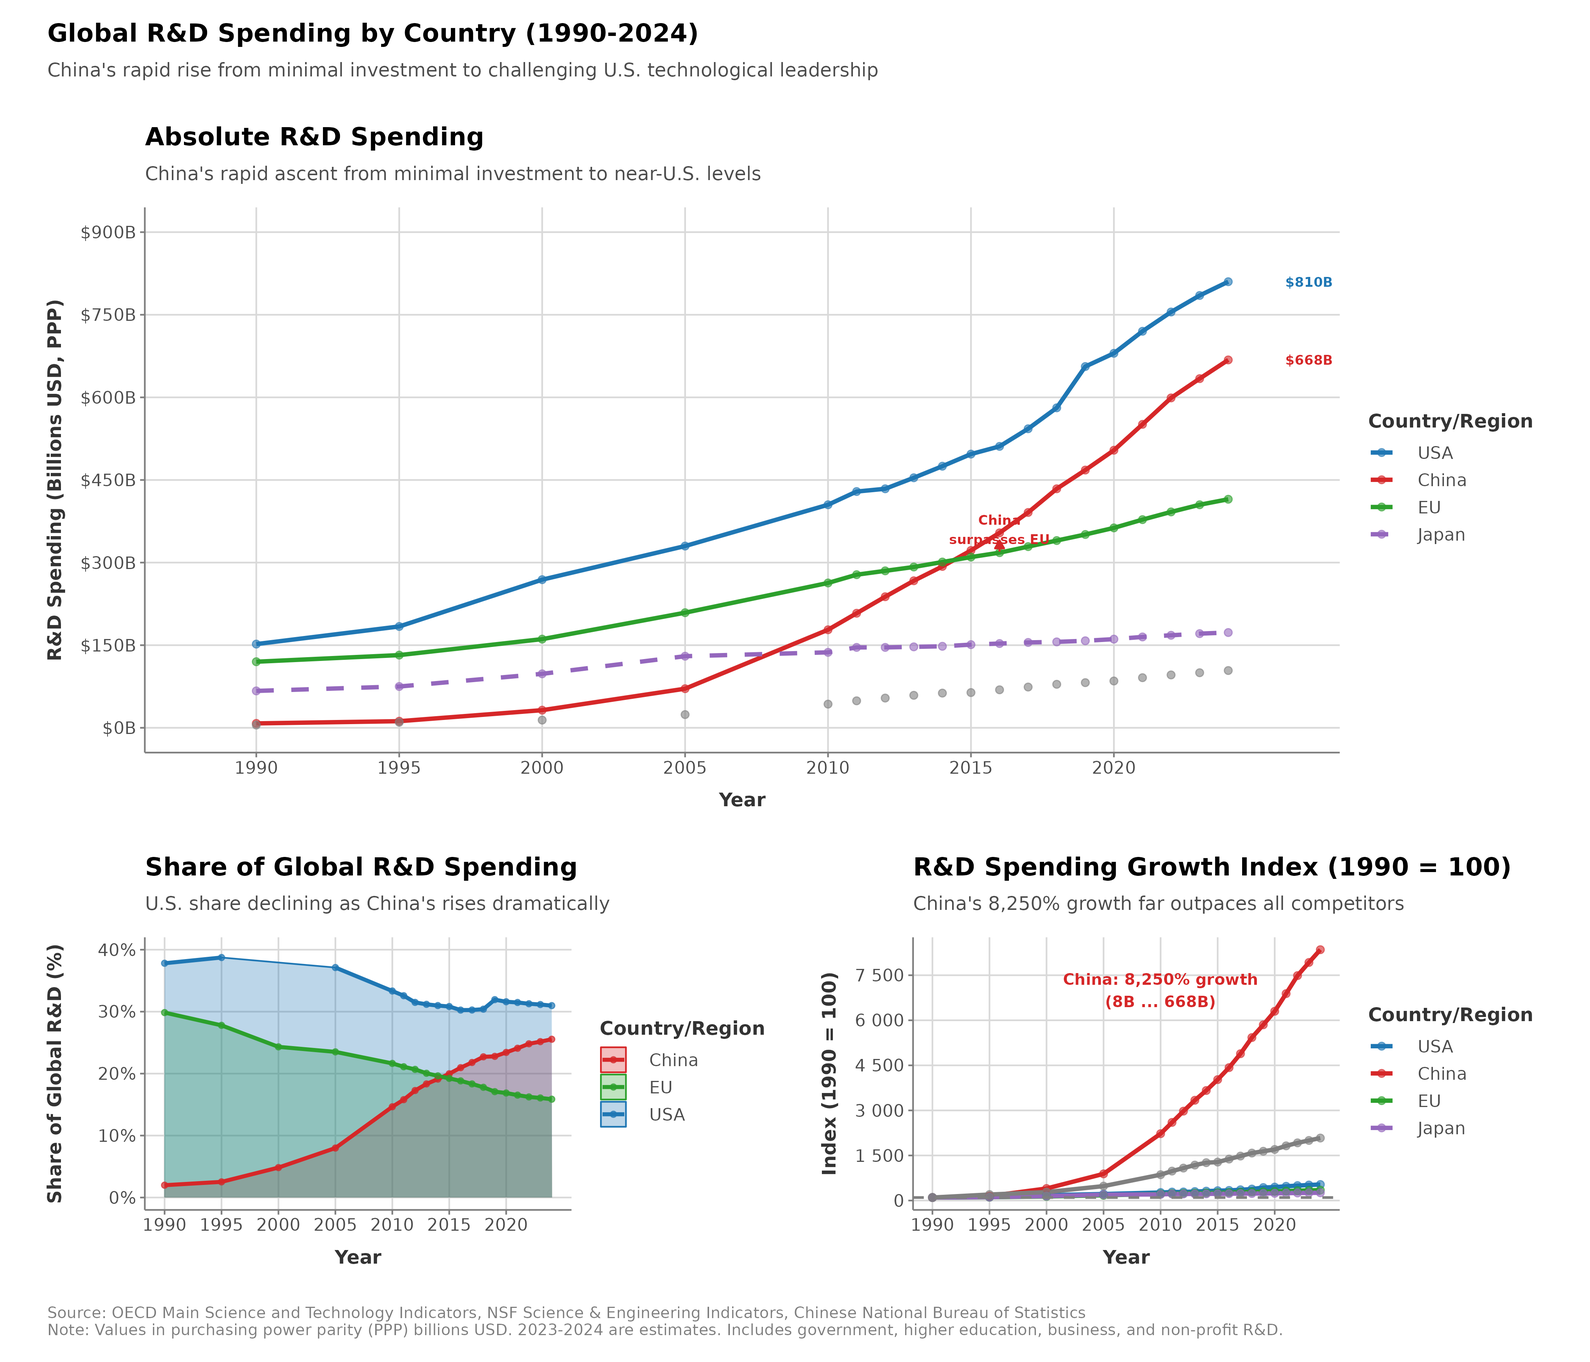
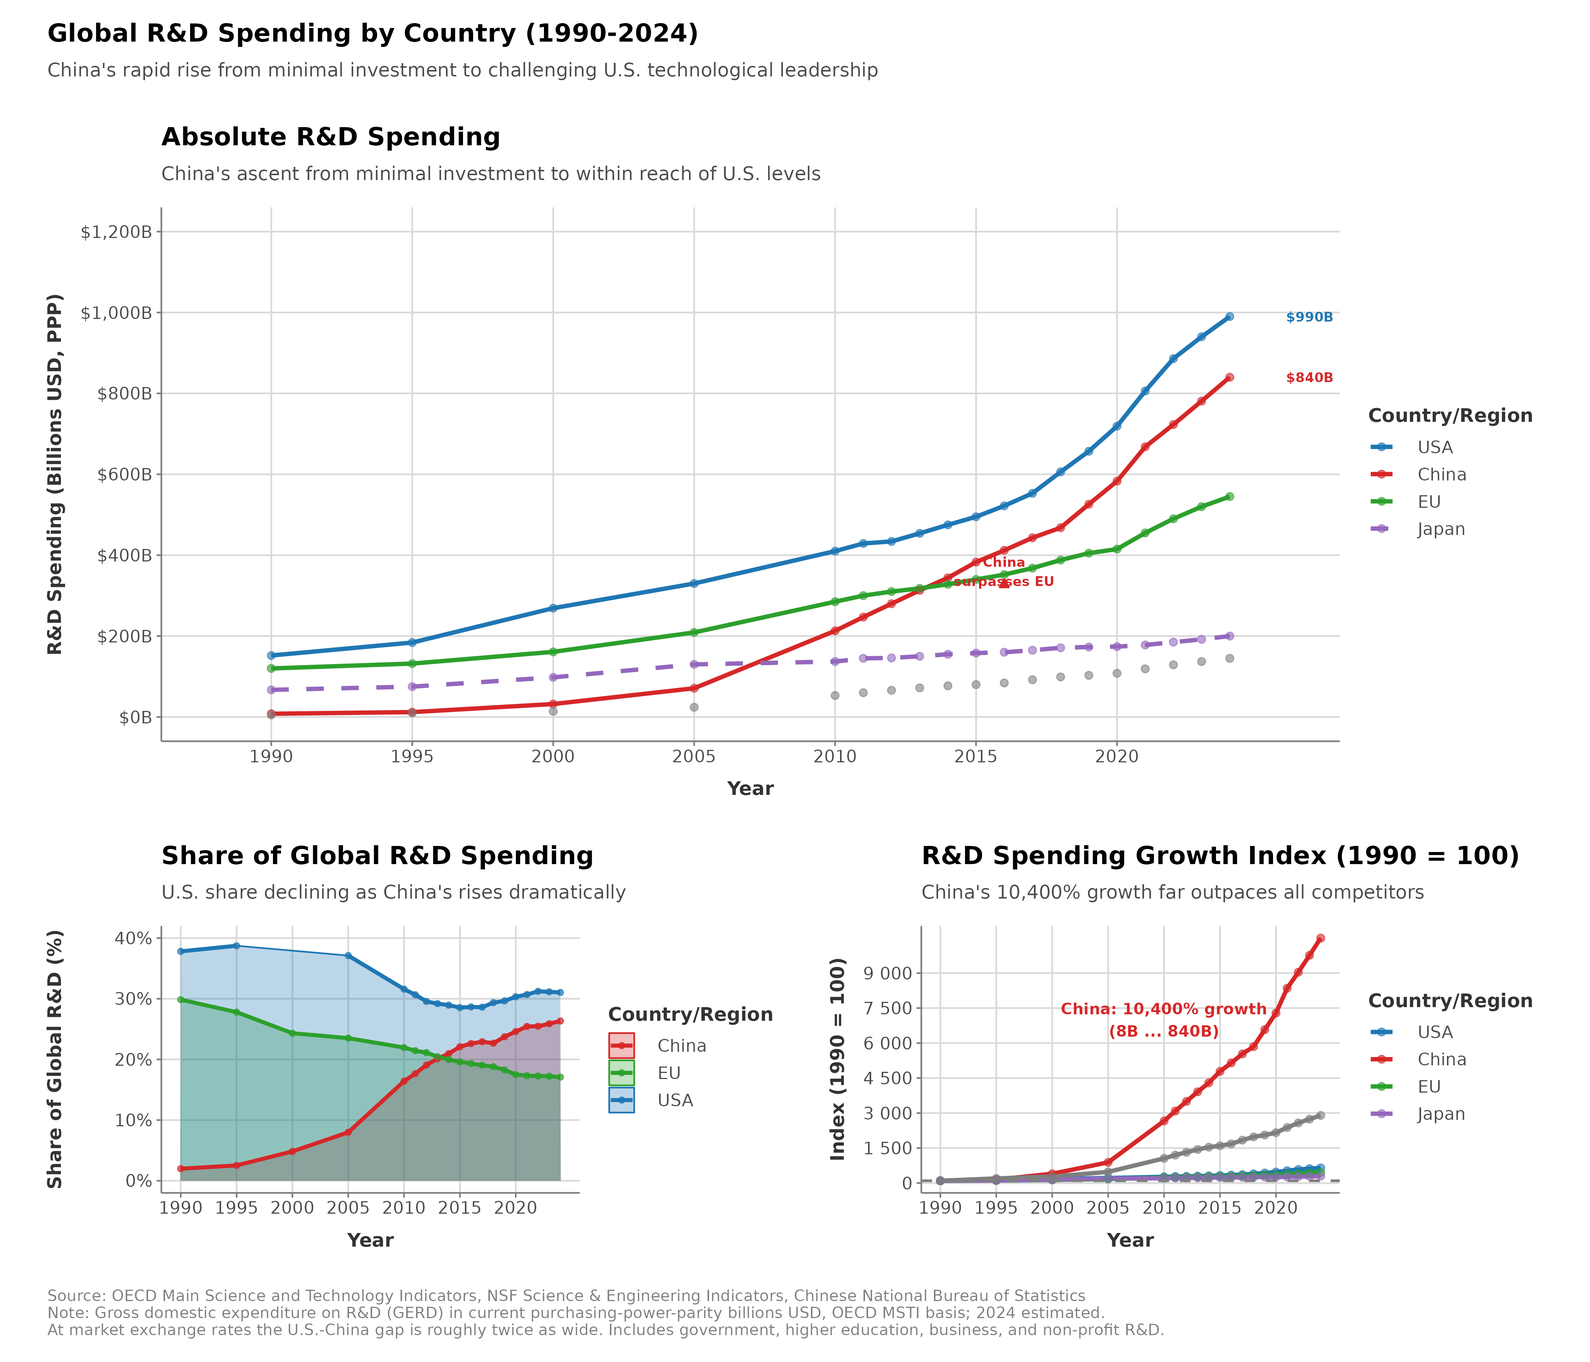
Conform R&D and renewables data to the canonical bases; de-drift figure labels
Figure 4.1 was labelled "PPP" but its U.S. series tracked market-rate GERD, so the
chart quietly contradicted Chapter 4's careful two-basis discussion. Rebuilt the
series on OECD MSTI current-PPP: China reaches ~$840B in 2024 against ~$990B for
the U.S. On that basis China has not yet passed the United States, so Chapter 4's
"surpassed ... around 2024" and the matching note in the canonical table are
softened to describe an imminent, deflator-sensitive crossing rather than an
accomplished one. Flagged for the author: the claim is genuinely contested and the
choice of PPP vintage decides it.

Renewables data conformed to canonical row 5 — polysilicon 93%, module assembly
86%, battery cells 80% — and the chapter 3 discussion question that quoted the old
75%/80% pair updated with it. Rare-earth processing standardised on the canonical
~90% (with ~70% mining) across chapters 3, 6, 10 and the appendix, which variously
carried 85% processing and 60% mining.

Hard-coded figure annotations that had already drifted once ($810B/$668B, "8,250%
growth") are now computed from the data, so they cannot drift again. Raised the
Figure 4.1 y-limit, which was clipping the very data point the panel exists to show.

diff --git a/chapters/chapter_10.md b/chapters/chapter_10.md
@@ -165,7 +165,7 @@ Climate change is reshaping the conditions for economic coercion. It alters reso
 
 **The Green Transition's Material Requirements**
 
-Decarbonization demands massive increases in the production of a handful of specific minerals (IEA 2021). Lithium, the backbone of EV batteries and grid storage, ran at roughly 180,000 tons per year in 2023 (USGS Mineral Commodity Summaries 2024); reaching net zero implies 2 to 3 million tons per year by 2050 (IEA 2023; IEA Net Zero Roadmap). Its supply is geographically lopsided, with Australia mining about 50% and Chile 25%, while China accounts for only 15% of mining but fully 60% of processing (USGS 2024; Benchmark Mineral Intelligence 2024). Cobalt tells a similar story: battery cathodes drew on roughly 230,000 tons per year in 2023 (USGS Mineral Commodity Summaries 2024; Cobalt Institute), a figure that must climb to 500,000-700,000 tons by 2050 (IEA 2023; IEA Net Zero Roadmap), with the Democratic Republic of the Congo supplying about 74% and Russia and China another 25% combined (USGS 2024; cobalt production data). Rare earths—the magnets in wind turbines and EV motors—come from an already stressed supply chain in which China controls 85% of processing and 70% of mining (Chapter 2; the Chapter 9 rare-earth case). Nickel, copper, graphite, and manganese round out the list, each requiring two- to fivefold production increases.
+Decarbonization demands massive increases in the production of a handful of specific minerals (IEA 2021). Lithium, the backbone of EV batteries and grid storage, ran at roughly 180,000 tons per year in 2023 (USGS Mineral Commodity Summaries 2024); reaching net zero implies 2 to 3 million tons per year by 2050 (IEA 2023; IEA Net Zero Roadmap). Its supply is geographically lopsided, with Australia mining about 50% and Chile 25%, while China accounts for only 15% of mining but fully 60% of processing (USGS 2024; Benchmark Mineral Intelligence 2024). Cobalt tells a similar story: battery cathodes drew on roughly 230,000 tons per year in 2023 (USGS Mineral Commodity Summaries 2024; Cobalt Institute), a figure that must climb to 500,000-700,000 tons by 2050 (IEA 2023; IEA Net Zero Roadmap), with the Democratic Republic of the Congo supplying about 74% and Russia and China another 25% combined (USGS 2024; cobalt production data). Rare earths—the magnets in wind turbines and EV motors—come from an already stressed supply chain in which China controls roughly 90% of processing and 70% of mining (Chapter 2; the Chapter 9 rare-earth case). Nickel, copper, graphite, and manganese round out the list, each requiring two- to fivefold production increases.
 
 **New Dependencies Replace Old**
 
@@ -176,11 +176,11 @@ Figure 10.2 visualizes the relocation of strategic dependencies: legacy hydrocar
   <figcaption>Figure 10.2: From oil to minerals — the relocation of strategic dependencies in the energy transition.</figcaption>
 </figure>
 
-Transitioning from fossil fuels to renewables does not eliminate strategic dependencies so much as relocate them, from oil producers to mineral processors, and the concentration is if anything more acute. Where OPEC produced roughly 40% of the world's oil, China processes 60 to 85% of the key minerals—a tighter chokepoint than the one that defined the twentieth century. Mining itself remains dispersed across the globe, but refining has pooled in China, drawn there by economies of scale, a willingness to externalize environmental costs, and tightly integrated supply chains. The same concentration extends downstream into manufacturing, with battery production, solar panels, and wind-turbine assembly all commanding a 60 to 80% Chinese share of the global market.
+Transitioning from fossil fuels to renewables does not eliminate strategic dependencies so much as relocate them, from oil producers to mineral processors, and the concentration is if anything more acute. Where OPEC produced roughly 40% of the world's oil, China processes 60 to 90% of the key minerals—a tighter chokepoint than the one that defined the twentieth century. Mining itself remains dispersed across the globe, but refining has pooled in China, drawn there by economies of scale, a willingness to externalize environmental costs, and tightly integrated supply chains. The same concentration extends downstream into manufacturing, with battery production, solar panels, and wind-turbine assembly all commanding a 60 to 80% Chinese share of the global market.
 
 {% hint style="warning" %}
 **From Oil to Minerals: A Relocation of Dependence**
-The green energy transition does not end resource-based strategic vulnerabilities; it transforms them. China's dominance of critical mineral processing (60-85% of lithium, cobalt, rare earths) exceeds OPEC's historical control of oil (40%). The 1970s oil shocks demonstrated how resource concentration enables coercion, and the 2010 rare earth embargo (Chapter 9) illustrated the same dynamic more recently. Building alternative processing capacity is a costly, environmentally challenging, decade-long project; absent that investment, the clean energy transition leaves the West dependent on Chinese processing.
+The green energy transition does not end resource-based strategic vulnerabilities; it transforms them. China's dominance of critical mineral processing (60-90% of lithium, cobalt, rare earths) exceeds OPEC's historical control of oil (40%). The 1970s oil shocks demonstrated how resource concentration enables coercion, and the 2010 rare earth embargo (Chapter 9) illustrated the same dynamic more recently. Building alternative processing capacity is a costly, environmentally challenging, decade-long project; absent that investment, the clean energy transition leaves the West dependent on Chinese processing.
 {% endhint %}
 
 **Strategic Implications**

diff --git a/chapters/chapter_4.md b/chapters/chapter_4.md
@@ -354,7 +354,7 @@ Research and development investment determines long-term technological leadershi
   <figcaption>Figure 4.1: R&D spending by country from 1990-2024, showing the dramatic rise of Chinese investment.</figcaption>
 </figure>
 
-Global R&D spending has grown dramatically and shifted eastward. World Bank and OECD data put it at roughly $2.2–2.5 trillion a year by 2021—about 2 percent of global GDP—with the growth concentrated in Asia (UNESCO Institute for Statistics 2023). The United States remains the largest single-country investor at market exchange rates, spending roughly $806 billion in 2021 (about 3.5 percent of GDP) and more since. How far China has closed the gap depends entirely on the yardstick. At market exchange rates Chinese R&D was about $430 billion in 2021 (2.4 percent of GDP), rising to RMB 3.61 trillion in 2024 (2.68 percent of GDP)—on that basis U.S. spending remains nearly double, roughly $990 billion against about $500 billion in 2024. In purchasing-power-parity terms, which correct for China's lower input and wage costs, the same 2021 outlay was closer to $650–670 billion, and by OECD and NSF estimates Chinese R&D surpassed the United States on a PPP basis around 2024 (OECD 2023; NBS 2025; NSF Science & Engineering Indicators 2024). The methodological gap between those two bases—not any statistical sleight of hand—is why headline claims of Chinese "parity" or "lead" must always name their yardstick. The European Union collectively invests substantial sums ($386 billion in 2021), but fragmentation across 27 member states dilutes coordination and scale, while Japan ($177 billion), South Korea (around $110–120 billion), and Taiwan sustain high R&D intensity of 3–4 percent of GDP on smaller absolute totals (OECD 2023).
+Global R&D spending has grown dramatically and shifted eastward. World Bank and OECD data put it at roughly $2.2–2.5 trillion a year by 2021—about 2 percent of global GDP—with the growth concentrated in Asia (UNESCO Institute for Statistics 2023). The United States remains the largest single-country investor at market exchange rates, spending roughly $806 billion in 2021 (about 3.5 percent of GDP) and more since. How far China has closed the gap depends entirely on the yardstick. At market exchange rates Chinese R&D was about $430 billion in 2021 (2.4 percent of GDP), rising to RMB 3.61 trillion in 2024 (2.68 percent of GDP)—on that basis U.S. spending remains nearly double, roughly $990 billion against about $500 billion in 2024. In purchasing-power-parity terms, which correct for China's lower input and wage costs, the same 2021 outlay was closer to $650–670 billion, and on the OECD's PPP series Chinese R&D reached roughly $840 billion in 2024 against about $990 billion for the United States—close enough that the crossing point is now a question of when rather than whether, though it had not yet occurred (OECD, *Main Science and Technology Indicators*; NBS 2025; NSF *Science and Engineering Indicators* 2024). The methodological gap between those two bases—not any statistical sleight of hand—is why headline claims of Chinese "parity" or "lead" must always name their yardstick. The European Union collectively invests substantial sums ($386 billion in 2021), but fragmentation across 27 member states dilutes coordination and scale, while Japan ($177 billion), South Korea (around $110–120 billion), and Taiwan sustain high R&D intensity of 3–4 percent of GDP on smaller absolute totals (OECD 2023).
 
 The composition of American R&D reflects its market-driven character. The private sector funds roughly 65–70 percent of the total, government 20–25 percent (chiefly through the NIH, NSF, DOD, and DOE), and universities and nonprofits the remaining 5–10 percent (OECD 2023)—so American research answers mainly to commercial incentive rather than state direction. Amazon, Alphabet, Microsoft, Meta, Apple, the pharmaceutical firms, and the aerospace manufacturers each pour tens of billions a year into R&D chasing competitive advantage. That commercial focus brings market discipline that weeds out unproductive work, but it can underinvest in basic research whose payoff is distant and uncertain even when the eventual social returns are enormous.
 

diff --git a/chapters/chapter_3.md b/chapters/chapter_3.md
@@ -317,7 +317,7 @@ Chinese government responses to resource vulnerabilities span multiple domains, 
 
 **Strategic reserves** buffer supply disruptions and price volatility. Beyond petroleum reserves, China maintains stockpiles of rare earths (ironic given China's production dominance—reserves guard against future scarcity or domestic supply issues), copper, aluminum, soybeans, pork (frozen meat reserves to stabilize prices), and other commodities. These reserves are larger than Western counterparts relative to consumption, reflecting greater anxiety about supply security and willingness to bear storage costs for insurance.
 
-**Vertical integration** aims to control entire supply chains. For critical minerals, China not only processes rare earths (85% global share) but also manufactures downstream products (magnets 90%, phosphors 80%). This integration means disruptions to foreign rare earth mines affect China less than competitors—China can substitute domestic mining or reduce export processing to prioritize domestic users. Similar integration occurs in solar panels (polysilicon through modules) and batteries (lithium processing through cell manufacturing).
+**Vertical integration** aims to control entire supply chains. For critical minerals, China not only processes rare earths (about 90% of global separation capacity) but also manufactures downstream products (magnets 90%, phosphors 80%). This integration means disruptions to foreign rare earth mines affect China less than competitors—China can substitute domestic mining or reduce export processing to prioritize domestic users. Similar integration occurs in solar panels (polysilicon through modules) and batteries (lithium processing through cell manufacturing).
 
 **Dual circulation** strategy, introduced in Chapter 2's Chinese Perspective Box, applies to resources. **Internal circulation** involves building domestic capacity: expanding coal mining, developing domestic oil and gas (despite higher costs), investing in renewable energy, and pursuing food self-sufficiency. **External circulation** focuses on diversifying import sources: oil from Middle East, Russia, Africa, and Latin America rather than depending on any one supplier; iron ore from Australia and Brazil; soybeans from Brazil and United States (with capacity to shift entirely to Brazil if U.S. restricts supply).
 
@@ -424,7 +424,7 @@ The underlying challenge is that both the United States and China view resource 
 
 4. Resource nationalism -- where countries restrict commodity exports to capture more value domestically -- often conflicts with the free trade principles that the international economic order is built upon. When is resource nationalism a legitimate development strategy, and when does it become economic coercion? How should the WTO and other institutions handle this distinction?
 
-5. China controls approximately 85% of rare earth processing, 75% of lithium-ion battery manufacturing, and 80% of solar panel production. If you were advising a European government on reducing these dependencies, what sequencing of policies would you recommend, given constraints on budget, time, and environmental standards?
+5. China controls roughly 90% of rare earth processing, 80% of lithium-ion battery cell manufacturing, and 86% of solar module assembly. If you were advising a European government on reducing these dependencies, what sequencing of policies would you recommend, given constraints on budget, time, and environmental standards?
 
 ---
 

diff --git a/DATA_DICTIONARY.md b/DATA_DICTIONARY.md
@@ -35,7 +35,7 @@ Every figure below was reconciled on 2026-07-11 against primary sources to resol
 | 16 | Undersea (submarine) cables — global count | **~570 in-service systems** (597 including under construction); 1,712 landings | 2025 map (TeleGeography) | TeleGeography, *Submarine Cable Map 2025* | Replaces the book's 485 (ch5:26) and 400 (ch5:537). Use "~570 active systems (about 600 including those under construction)." |
 | 17 | Pharma/API — China dependence (facility-share framing) | Of API facilities registered to supply the US market: **US ~28%, EU ~26%, India ~18%, China ~13%, rest ~15%** | 2019 (FDA); China ~20% by 2025 | FDA, Woodcock congressional testimony, 30 Oct 2019; USP; Brookings | **The "80% of supply from China (or China+India)" claim is unsupported** — it conflates facility counts with production volume and has no reliable primary source. Use the facility-share framing. China's facility share rose to ~20% by 2025; India leads in generics volume. |
 | 18 | US vs China orbital launches | **2023: US ~116 / China 67; 2024: US 154 / China 66; 2025: US 193 / China 92** | 2023–2025 annual | SpaceNews; Payload; illdefined.space launch summaries | US **far exceeds** China (SpaceX alone ~134 in 2024, ~165 in 2025). Corrects ch4:337's "comparable to or exceeding U.S." The US-China gap has widened every year since 2022. |
-| 19 | China R&D spending — level, basis, composition | **¥3.613 trillion (~$496B at market rate; ~$0.86T PPP, 2020 dollars)**; intensity 2.68% of GDP. Funding: **business ~77%, government ~20%** | 2024 | China NBS (2025 communiqué); OECD MSTI | State the **PPP-vs-market basis explicitly** (China surpassed the US on a PPP basis in 2024; on a market-rate basis US R&D is still nearly double—about $993B for the US in 2024 versus roughly $500B for China). Composition corrects ch4:390: enterprises perform 77.7% and fund ~77%; government funds ~20% — not "government/SOEs 60–70%." |
+| 19 | China R&D spending — level, basis, composition | **¥3.613 trillion (~$496B at market rate; ~$0.86T PPP, 2020 dollars)**; intensity 2.68% of GDP. Funding: **business ~77%, government ~20%** | 2024 | China NBS (2025 communiqué); OECD MSTI | State the **PPP-vs-market basis explicitly.** On the OECD PPP series China reached ~$840B in 2024 against ~$990B for the US — closing fast but **not yet ahead**; claims that China has already passed the US on PPP rest on a different deflator vintage and should not be asserted flatly. On a market-rate basis US R&D is still nearly double: ~$993B for the US in 2024 versus roughly $500B for China. Composition corrects ch4:390: enterprises perform 77.7% and fund ~77%; government funds ~20% — not "government/SOEs 60–70%." |
 | 20 | German WWI blockade — civilian vs combat deaths | Blockade **civilian deaths ~424,000–763,000**; German **military/combat deaths ~2.0 million** | 1914–1919 | *1914-1918-Online* Encyclopedia; German Board of Public Health (Dec 1918) | Combat deaths **far exceeded** blockade civilian deaths — corrects ch3:37's reversed claim. The 763,000 figure is the (contested) German 1918 official estimate; Winter's excess-death estimate is ~300,000; range ~0.5–1% of population. |
 
 ### Sources for canonical statistics

diff --git a/appendices/appendix_a_tabletop_exercises.md b/appendices/appendix_a_tabletop_exercises.md
@@ -516,7 +516,7 @@ Replay the chokepoint shock from the **Chinese** seat: in **EconWar**, decide wh
 
 Following a U.S. decision to impose new tariffs on Chinese electric vehicles and solar panels under Section 301, China announces "temporary export controls" on gallium, germanium, and several rare earth elements "for national security reasons." The measures require Chinese exporters to obtain licenses for shipments to "unfriendly countries," which in practice means the United States and allies supporting the tariffs.
 
-China produces 98% of global gallium, 60% of germanium, and dominates rare earth processing (85%+ global capacity). These materials are critical for:
+China produces 98% of global gallium, 60% of germanium, and dominates rare earth processing (about 90% of global capacity). These materials are critical for:
 - **Defense:** Missile guidance systems, radar, satellite communications, night vision equipment
 - **Clean energy:** Wind turbines, electric vehicle motors, solar panels
 - **Electronics:** Smartphones, fiber optics, semiconductors, LED lighting
@@ -671,7 +671,7 @@ Chinese state media declares that "those who seek to contain China will find the
 - Infrastructure Investment and Jobs Act (rare earth programs)
 
 **Critical Mineral Data:**
-- Chinese rare earth production: 60% of mining, 85%+ of processing
+- Chinese rare earth production: about 70% of mining, about 90% of processing
 - U.S. imports: 80% of rare earth elements from China (2019)
 - Defense uses: $500 million+ annually in rare earths for weapons systems
 - Clean energy: Each wind turbine requires ~500 kg of rare earths; each EV motor ~1-2 kg

diff --git a/chapters/chapter_6.md b/chapters/chapter_6.md
@@ -445,7 +445,7 @@ Technologies with strong network effects create lock-in that unilateral controls
 
 Some goods lack ready substitutes due to technical complexity or economies of scale:
 
-- **Rare earth processing** (China): Despite rare earths mined globally, China processes 85% (USGS 2024). Chinese export restrictions force others to develop processing (slow, expensive, environmentally challenging) or pay premium prices.
+- **Rare earth processing** (China): Despite rare earths being mined in several countries, China performs roughly 90% of global separation and refining, and mines about 70% (USGS 2025). Chinese export restrictions force others to develop processing (slow, expensive, environmentally challenging) or pay premium prices.
 - **Pharmaceutical precursors**: Consolidation of API production in China/India creates dependencies exploitable through export restrictions
 - **Specialized aerospace components**: Single-source suppliers for certain aircraft and satellite components enable unilateral controls
 
